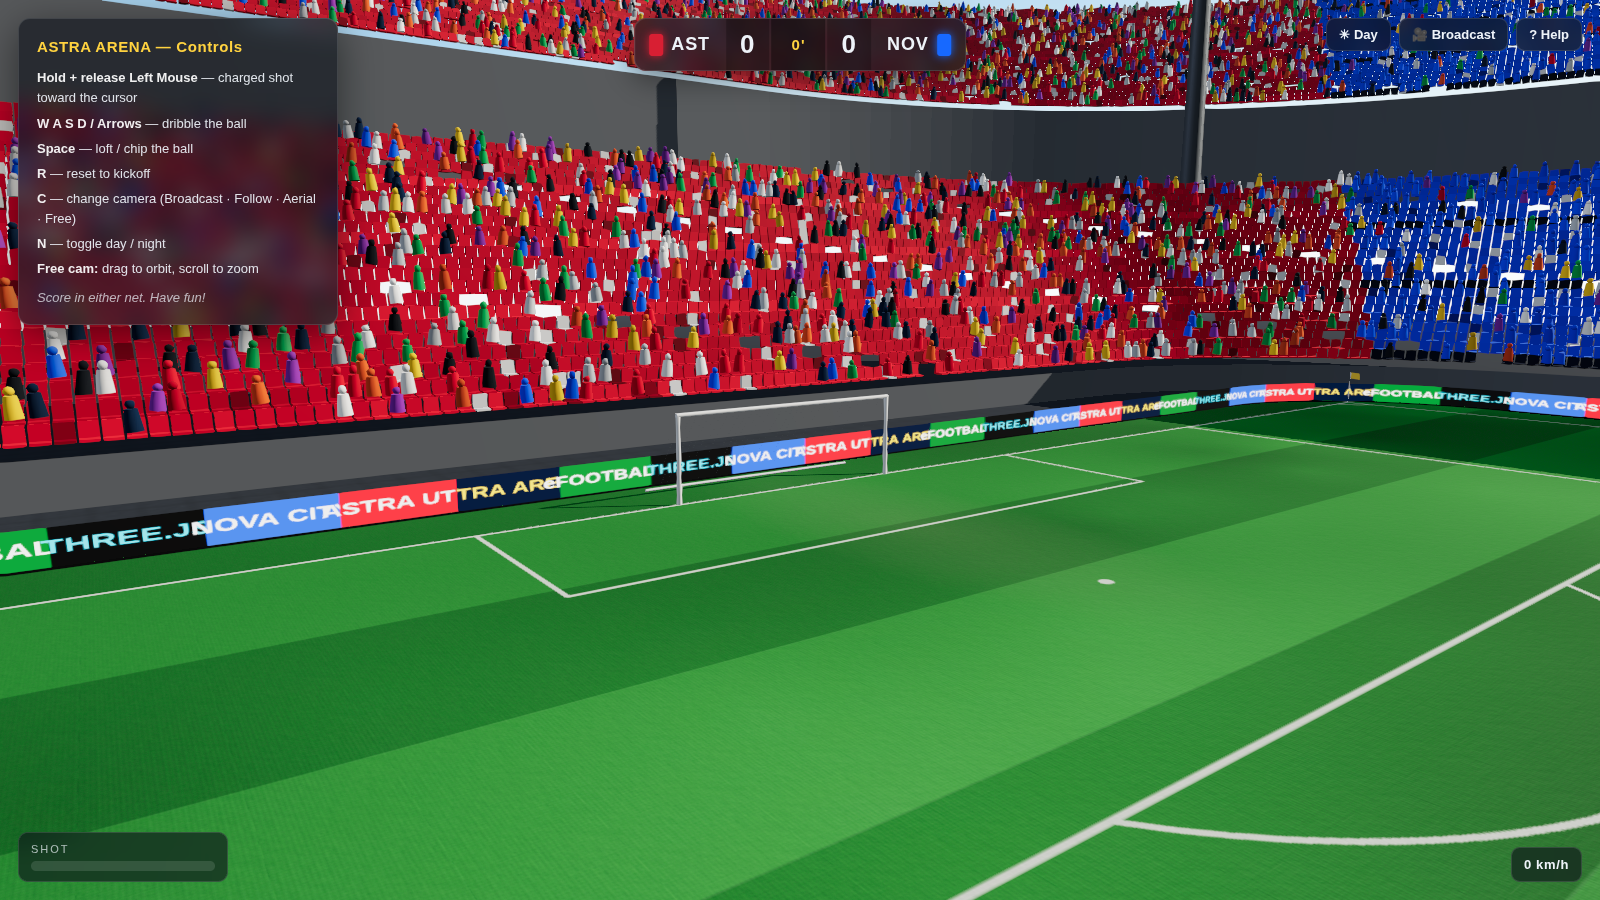
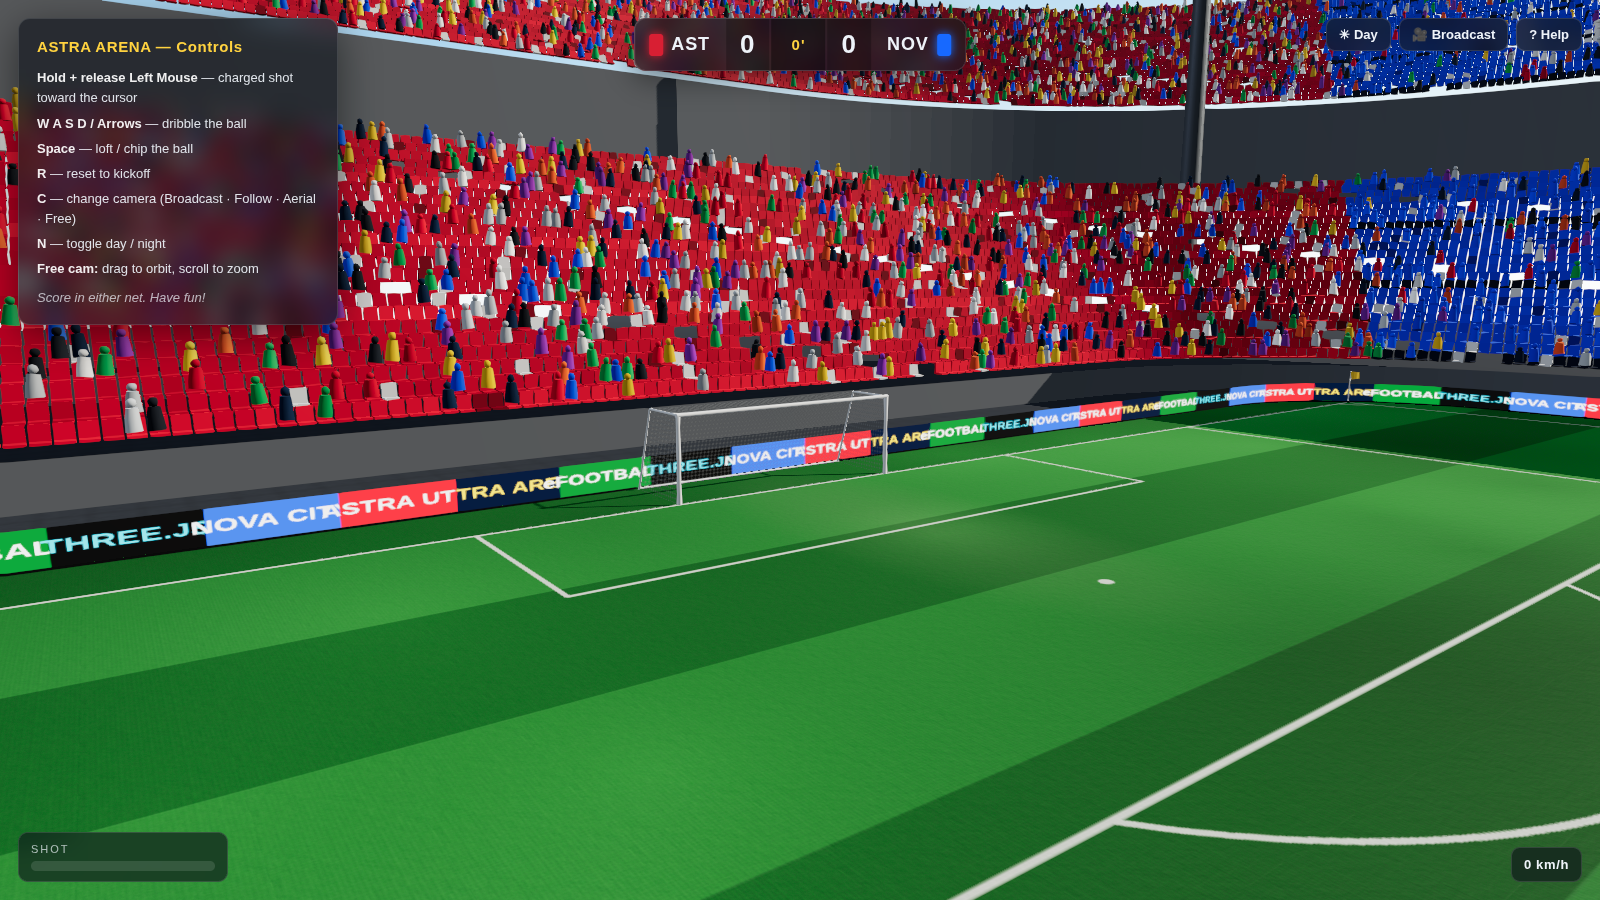
More realistic goal nets and corner flags
Goals
- Knotted woven-net texture (strands + knots), each panel given its own
  texture clone so mesh holes stay a uniform ~13 cm regardless of panel size
- Cleaner real-goal profile: flat net roof then slanted back to the ground
- Added back support stanchions (roof arms + angled rear posts + back bar)

Corner flags
- Proper waving flag (baked wind curve), pole finial and weighted base
- Flags angled in toward the pitch centre

All additions are a few hundred triangles total — the instanced stands/crowd
are untouched, so performance is unchanged.

https://claude.ai/code/session_01S19XfvKNxLzMgS19qT1buL

diff --git a/src/stadium/Goals.js b/src/stadium/Goals.js
@@ -1,23 +1,35 @@
 /**
- * Goals.js — regulation goals (7.32 × 2.44 m) with round posts, a crossbar and
- * a slanted, sagging net built from a procedural mesh texture.
+ * Goals.js — regulation goals (7.32 × 2.44 m).
+ *
+ * Round posts + crossbar, two back support stanchions, a back ground bar, and a
+ * draped net built from four sagging panels. The net uses a procedurally drawn
+ * knotted-mesh texture; each panel gets its own texture clone so the holes stay
+ * a consistent real-world size (~13 cm) regardless of the panel's dimensions.
+ *
+ * Geometry here is tiny (a few hundred triangles per goal), so the extra detail
+ * costs nothing next to the instanced stands/crowd.
  */
 
 import * as THREE from 'three';
 import { FIELD, GOAL } from '../config.js';
 
+const UP = new THREE.Vector3(0, 1, 0);
+const NET_HOLE = 0.13; // target mesh hole size in metres
+const NET_CELLS = 8; // cells per texture tile
+
 function createNetTexture() {
-  const size = 128;
+  const size = 256;
   const c = document.createElement('canvas');
   c.width = c.height = size;
   const ctx = c.getContext('2d');
   ctx.clearRect(0, 0, size, size);
-  ctx.strokeStyle = 'rgba(255,255,255,0.85)';
-  ctx.lineWidth = 1.4;
-  const cells = 9;
-  const step = size / cells;
+
+  const step = size / NET_CELLS;
+  ctx.strokeStyle = 'rgba(248,251,252,0.95)';
+  ctx.lineWidth = 2.6;
+  ctx.lineCap = 'round';
   ctx.beginPath();
-  for (let i = 0; i <= cells; i++) {
+  for (let i = 0; i <= NET_CELLS; i++) {
     const p = i * step;
     ctx.moveTo(p, 0);
     ctx.lineTo(p, size);
@@ -25,8 +37,20 @@ function createNetTexture() {
     ctx.lineTo(size, p);
   }
   ctx.stroke();
+
+  // little knots where strands cross — reads as a real woven net up close
+  ctx.fillStyle = 'rgba(255,255,255,0.98)';
+  for (let i = 0; i <= NET_CELLS; i++) {
+    for (let j = 0; j <= NET_CELLS; j++) {
+      ctx.beginPath();
+      ctx.arc(i * step, j * step, 2.4, 0, Math.PI * 2);
+      ctx.fill();
+    }
+  }
+
   const tex = new THREE.CanvasTexture(c);
   tex.wrapS = tex.wrapT = THREE.RepeatWrapping;
+  tex.anisotropy = 8;
   return tex;
 }
 
@@ -37,8 +61,13 @@ export class Goals {
 
     this.netTex = createNetTexture();
     this.postMat = new THREE.MeshStandardMaterial({
-      color: 0xf4f6f8,
-      roughness: 0.32,
+      color: 0xf3f5f7,
+      roughness: 0.3,
+      metalness: 0.05
+    });
+    this.stanchionMat = new THREE.MeshStandardMaterial({
+      color: 0xeef1f4,
+      roughness: 0.4,
       metalness: 0.05
     });
 
@@ -46,114 +75,107 @@ export class Goals {
     this.group.add(this.buildGoal(1)); // away (opening faces −X)
   }
 
+  netMaterial(realW, realH) {
+    const t = this.netTex.clone();
+    t.needsUpdate = true;
+    t.wrapS = t.wrapT = THREE.RepeatWrapping;
+    t.repeat.set(
+      Math.max(1, realW / (NET_HOLE * NET_CELLS)),
+      Math.max(1, realH / (NET_HOLE * NET_CELLS))
+    );
+    return new THREE.MeshStandardMaterial({
+      map: t,
+      transparent: true,
+      alphaTest: 0.14,
+      side: THREE.DoubleSide,
+      color: 0xf0f4f6,
+      roughness: 0.9,
+      metalness: 0,
+      depthWrite: true
+    });
+  }
+
+  bar(a, b, radius, mat) {
+    const va = new THREE.Vector3(...a);
+    const vb = new THREE.Vector3(...b);
+    const dir = new THREE.Vector3().subVectors(vb, va);
+    const len = dir.length();
+    const mesh = new THREE.Mesh(
+      new THREE.CylinderGeometry(radius, radius, len, 10),
+      mat
+    );
+    mesh.position.copy(va).add(vb).multiplyScalar(0.5);
+    mesh.quaternion.setFromUnitVectors(UP, dir.normalize());
+    mesh.castShadow = true;
+    return mesh;
+  }
+
   buildGoal(sign) {
     const g = new THREE.Group();
     const W = GOAL.WIDTH;
     const H = GOAL.HEIGHT;
     const r = GOAL.POST_RADIUS;
-    const halfW = W / 2;
-    const depthTop = GOAL.DEPTH_TOP;
-    const depthBottom = GOAL.DEPTH_BOTTOM;
+    const hw = W / 2;
+    const dTop = GOAL.DEPTH_TOP;
+    const dBot = GOAL.DEPTH_BOTTOM;
 
-    // Build facing +X, net trailing toward −X, then place/rotate per side.
+    // ---- frame (built facing +X, net trailing toward −X) -----------------
     const post = (z) => {
-      const m = new THREE.Mesh(
-        new THREE.CylinderGeometry(r, r, H, 20),
-        this.postMat
-      );
+      const m = new THREE.Mesh(new THREE.CylinderGeometry(r, r, H, 20), this.postMat);
       m.position.set(0, H / 2, z);
       m.castShadow = true;
       g.add(m);
     };
-    post(-halfW);
-    post(halfW);
+    post(-hw);
+    post(hw);
 
-    const bar = new THREE.Mesh(
+    const crossbar = new THREE.Mesh(
       new THREE.CylinderGeometry(r, r, W + r * 2, 20),
       this.postMat
     );
-    bar.rotation.x = Math.PI / 2;
-    bar.position.set(0, H, 0);
-    bar.castShadow = true;
-    g.add(bar);
+    crossbar.rotation.x = Math.PI / 2;
+    crossbar.position.set(0, H, 0);
+    crossbar.castShadow = true;
+    g.add(crossbar);
 
+    // back support stanchions: a roof arm and an angled rear post on each side
+    for (const sz of [-hw, hw]) {
+      g.add(this.bar([0, H, sz], [-dTop, H, sz], r * 0.6, this.stanchionMat)); // roof arm
+      g.add(this.bar([-dTop, H, sz], [-dBot, 0, sz], r * 0.55, this.stanchionMat)); // rear post
+    }
     // back ground bar
-    const back = new THREE.Mesh(
-      new THREE.CylinderGeometry(r * 0.7, r * 0.7, W, 12),
-      this.postMat
+    g.add(this.bar([-dBot, r * 0.6, -hw], [-dBot, r * 0.6, hw], r * 0.6, this.stanchionMat));
+
+    // ---- net panels (own material → uniform hole size) -------------------
+    const slant = Math.hypot(dBot - dTop, H);
+    // roof: crossbar → back-top
+    g.add(
+      this.saggedPanel(
+        [0, H, -hw], [0, H, hw], [-dTop, H, hw], [-dTop, H, -hw],
+        this.netMaterial(W, dTop), 12, 5, 0.12
+      )
     );
-    back.rotation.x = Math.PI / 2;
-    back.position.set(-depthBottom, r * 0.7, 0);
-    g.add(back);
-
-    // ---- net -------------------------------------------------------------
-    const netMat = new THREE.MeshStandardMaterial({
-      map: this.netTex,
-      alphaMap: this.netTex,
-      transparent: true,
-      alphaTest: 0.15,
-      side: THREE.DoubleSide,
-      color: 0xf4f8fb,
-      roughness: 0.85,
-      metalness: 0,
-      depthWrite: true
-    });
-
-    // Back panel: slanted plane from crossbar (x=0,y=H) to back bar (x=-depthBottom, y=0)
-    const backPanel = this.saggedPanel(
-      [0, H, -halfW],
-      [0, H, halfW],
-      [-depthBottom, 0, halfW],
-      [-depthBottom, 0, -halfW],
-      netMat,
-      12,
-      8,
-      0.18
+    // back: back-top → ground
+    g.add(
+      this.saggedPanel(
+        [-dTop, H, -hw], [-dTop, H, hw], [-dBot, 0, hw], [-dBot, 0, -hw],
+        this.netMaterial(W, slant), 12, 6, 0.22
+      )
     );
-    g.add(backPanel);
-
-    // Top panel: from crossbar back to depthTop (gives the net a "roof")
-    const topPanel = this.saggedPanel(
-      [0, H, -halfW],
-      [0, H, halfW],
-      [-depthTop, H * 0.62, halfW],
-      [-depthTop, H * 0.62, -halfW],
-      netMat,
-      10,
-      4,
-      0.1
+    // sides (trapezoids)
+    g.add(
+      this.saggedPanel(
+        [0, 0, -hw], [0, H, -hw], [-dTop, H, -hw], [-dBot, 0, -hw],
+        this.netMaterial(dBot, H), 6, 8, 0.06
+      )
     );
-    g.add(topPanel);
-
-    // Two side triangles (left/right). Use quads degenerated to triangles.
-    const sidePanelL = this.saggedPanel(
-      [0, H, -halfW],
-      [-depthTop, H * 0.62, -halfW],
-      [-depthBottom, 0, -halfW],
-      [0, 0, -halfW],
-      netMat,
-      8,
-      8,
-      0.05
+    g.add(
+      this.saggedPanel(
+        [0, 0, hw], [0, H, hw], [-dTop, H, hw], [-dBot, 0, hw],
+        this.netMaterial(dBot, H), 6, 8, 0.06
+      )
     );
-    const sidePanelR = this.saggedPanel(
-      [0, 0, halfW],
-      [-depthBottom, 0, halfW],
-      [-depthTop, H * 0.62, halfW],
-      [0, H, halfW],
-      netMat,
-      8,
-      8,
-      0.05
-    );
-    g.add(sidePanelL, sidePanelR);
 
-    // texture density on the net
-    [backPanel, topPanel, sidePanelL, sidePanelR].forEach((p) => {
-      p.material.map.repeat.set(4, 3);
-    });
-
-    // place
     const x = sign * FIELD.HALF_LENGTH;
     g.position.x = x;
     if (sign > 0) g.rotation.y = Math.PI; // away goal faces −X
@@ -180,15 +202,14 @@ export class Goals {
       tmpAB.lerpVectors(a, b, u);
       tmpDC.lerpVectors(d, c, u);
       p.lerpVectors(tmpAB, tmpDC, v);
-      // sag toward −X and slightly down, strongest at panel centre
+      // gravity sag toward −X and slightly down, strongest at the panel centre
       const s = Math.sin(u * Math.PI) * Math.sin(v * Math.PI) * sag;
       p.x -= s;
       p.y -= s * 0.4;
       pos.setXYZ(i, p.x, p.y, p.z);
     }
     geo.computeVertexNormals();
-    const mesh = new THREE.Mesh(geo, material.clone());
-    return mesh;
+    return new THREE.Mesh(geo, material);
   }
 
   get object() {

diff --git a/src/stadium/Surroundings.js b/src/stadium/Surroundings.js
@@ -120,12 +120,30 @@ export class Surroundings {
   }
 
   buildCornerFlags() {
-    const poleMat = new THREE.MeshStandardMaterial({ color: 0xeeeeee, roughness: 0.6 });
+    const poleMat = new THREE.MeshStandardMaterial({
+      color: 0xf2f2f2,
+      roughness: 0.45,
+      metalness: 0.1
+    });
+    const baseMat = new THREE.MeshStandardMaterial({ color: 0x161616, roughness: 0.9 });
     const flagMat = new THREE.MeshStandardMaterial({
-      color: 0xffd23f,
-      roughness: 0.8,
+      color: 0xffce2b,
+      roughness: 0.7,
+      metalness: 0,
       side: THREE.DoubleSide
     });
+
+    // a single waving-flag geometry, reused for all four corners
+    const flagGeo = new THREE.PlaneGeometry(0.52, 0.32, 16, 3);
+    flagGeo.translate(0.26, 0, 0); // hinge at x=0 (the pole)
+    const fp = flagGeo.attributes.position;
+    for (let i = 0; i < fp.count; i++) {
+      const x = fp.getX(i);
+      const t = x / 0.52; // 0 at pole → 1 at the fly end
+      fp.setZ(i, Math.sin(x * 9.0 + 0.6) * 0.05 * t + Math.sin(x * 22.0) * 0.012 * t);
+    }
+    flagGeo.computeVertexNormals();
+
     const corners = [
       [-FIELD.HALF_LENGTH, -FIELD.HALF_WIDTH],
       [FIELD.HALF_LENGTH, -FIELD.HALF_WIDTH],
@@ -135,13 +153,32 @@ export class Surroundings {
     corners.forEach(([x, z]) => {
       const g = new THREE.Group();
       g.position.set(x, 0, z);
-      const pole = new THREE.Mesh(new THREE.CylinderGeometry(0.02, 0.02, 1.5, 8), poleMat);
+
+      const pole = new THREE.Mesh(
+        new THREE.CylinderGeometry(0.022, 0.026, 1.5, 10),
+        poleMat
+      );
       pole.position.y = 0.75;
       pole.castShadow = true;
       g.add(pole);
-      const flag = new THREE.Mesh(new THREE.PlaneGeometry(0.45, 0.3), flagMat);
-      flag.position.set(Math.sign(-x) * 0.22, 1.32, 0);
+
+      // little finial on top + a weighted base
+      const cap = new THREE.Mesh(new THREE.SphereGeometry(0.04, 10, 8), poleMat);
+      cap.position.y = 1.52;
+      g.add(cap);
+      const base = new THREE.Mesh(
+        new THREE.CylinderGeometry(0.07, 0.09, 0.08, 12),
+        baseMat
+      );
+      base.position.y = 0.04;
+      g.add(base);
+
+      const flag = new THREE.Mesh(flagGeo, flagMat);
+      flag.position.set(0, 1.34, 0);
+      flag.rotation.y = Math.atan2(-x, -z); // point in toward the pitch centre
+      flag.castShadow = true;
       g.add(flag);
+
       this.group.add(g);
     });
   }

diff --git a/src/config.js b/src/config.js
@@ -43,8 +43,8 @@ export const GOAL = {
   WIDTH: 7.32,
   HEIGHT: 2.44,
   POST_RADIUS: 0.06,
-  DEPTH_TOP: 1.0, // how far the crossbar net arm reaches back
-  DEPTH_BOTTOM: 2.0 // how far the net foot reaches back along the ground
+  DEPTH_TOP: 1.6, // how far the net roof reaches back from the crossbar
+  DEPTH_BOTTOM: 2.4 // how far the net foot reaches back along the ground
 };
 
 export const BALL = {
